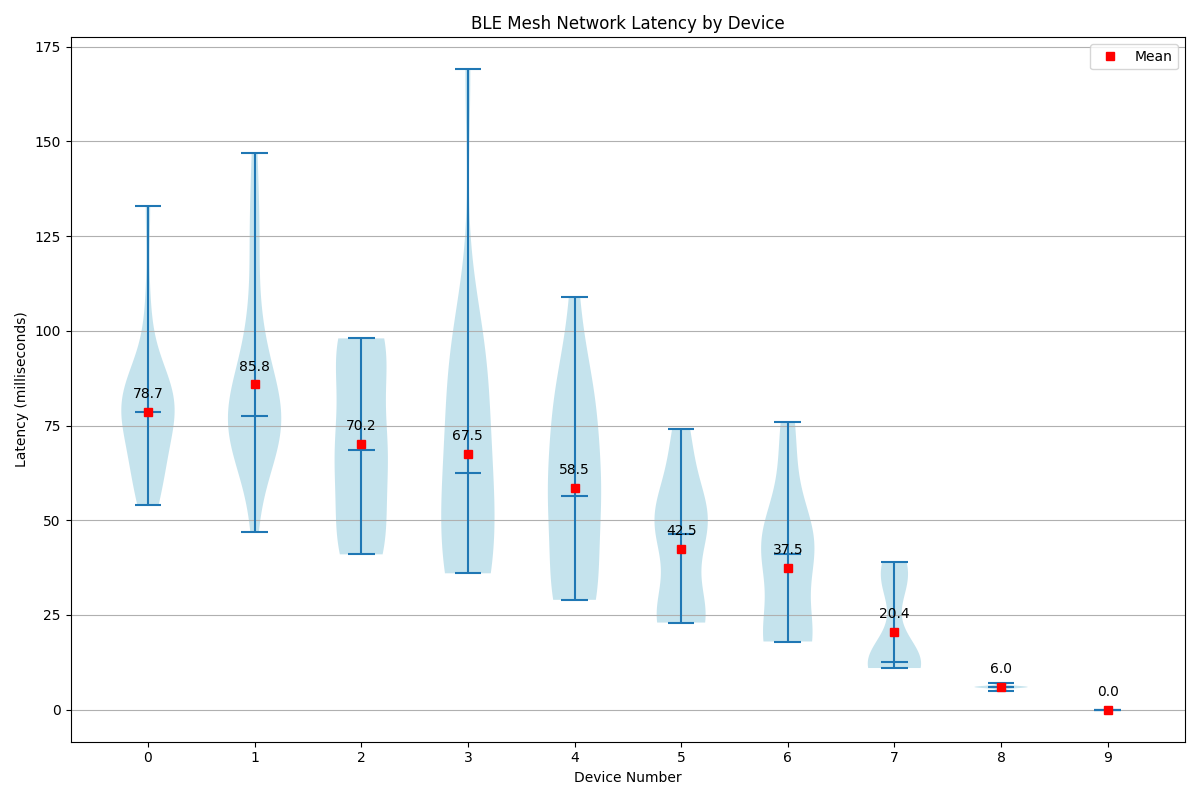
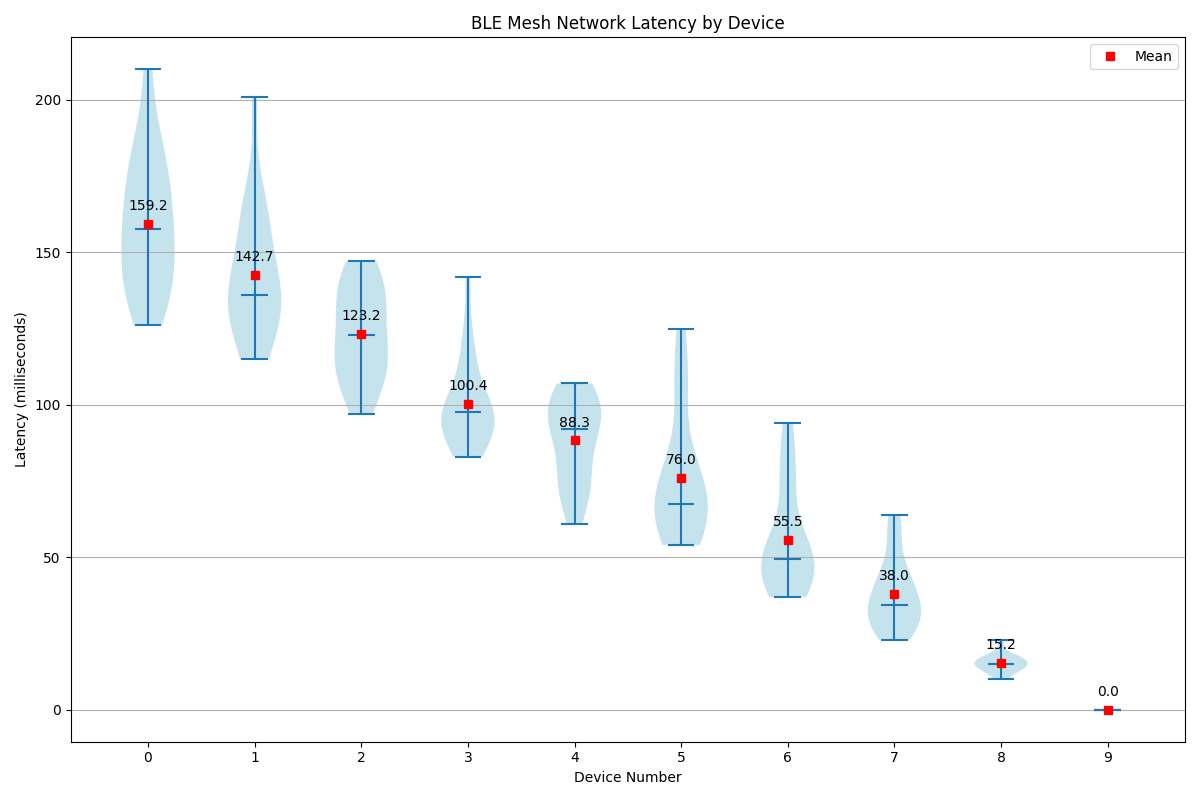
Bluetooth: Mesh: Use SDC for simulation
Uses SoftDevice Controller for simulation.

diff --git a/helper_plot_results.py b/helper_plot_results.py
@@ -7,16 +7,16 @@ import matplotlib.pyplot as plt
 
 # Sample log data - this could  be read from a file in practice
 log_data = """
-d_09: @00:04:09.435151  [00:04:09.435,150] <inf> mesh_nw_test: Dev 0 addr 0x0001 avg latency:  78 ms failures 0 # values: 59 105 63 80 133 86 83 60 84 77 65 63 76 79 87 83 76 78 54 82
-d_09: @00:04:09.435151  [00:04:09.435,150] <inf> mesh_nw_test: Dev 1 addr 0x0002 avg latency:  85 ms failures 0 # values: 81 47 72 70 77 71 92 73 75 98 75 76 78 78 127 100 124 77 79 147
-d_09: @00:04:09.435151  [00:04:09.435,150] <inf> mesh_nw_test: Dev 2 addr 0x0003 avg latency:  70 ms failures 0 # values: 63 41 63 45 74 73 46 96 91 70 88 97 45 67 97 98 97 43 66 43
-d_09: @00:04:09.435151  [00:04:09.435,150] <inf> mesh_nw_test: Dev 3 addr 0x0004 avg latency:  67 ms failures 0 # values: 88 89 65 58 39 89 40 36 92 66 36 56 64 38 37 95 95 36 169 61
-d_09: @00:04:09.435151  [00:04:09.435,150] <inf> mesh_nw_test: Dev 4 addr 0x0005 avg latency:  58 ms failures 0 # values: 58 29 31 51 63 53 87 61 51 78 55 76 74 31 82 30 90 109 30 31
-d_09: @00:04:09.435151  [00:04:09.435,150] <inf> mesh_nw_test: Dev 5 addr 0x0006 avg latency:  42 ms failures 0 # values: 50 74 44 25 23 24 70 46 25 51 51 23 52 24 24 67 53 24 47 53
-d_09: @00:04:09.435151  [00:04:09.435,150] <inf> mesh_nw_test: Dev 6 addr 0x0007 avg latency:  37 ms failures 0 # values: 19 41 18 45 42 46 63 46 18 19 72 18 49 18 40 18 76 41 43 18
-d_09: @00:04:09.435151  [00:04:09.435,150] <inf> mesh_nw_test: Dev 7 addr 0x0008 avg latency:  20 ms failures 0 # values: 13 12 37 12 39 12 11 35 32 12 12 12 34 12 36 13 13 12 38 12
-d_09: @00:04:09.435151  [00:04:09.435,150] <inf> mesh_nw_test: Dev 8 addr 0x0009 avg latency:   6 ms failures 0 # values: 5 7 6 6 5 6 7 6 6 6 6 6 6 6 6 5 6 6 6 7
-d_09: @00:04:09.435151  [00:04:09.435,150] <inf> mesh_nw_test: Dev 9 addr 0x000a avg latency:   0 ms failures 0 # values: 0 0 0 0 0 0 0 0 0 0 0 0 0 0 0 0 0 0 0 0
+d_09: @00:04:16.049439  [00:04:16.049,438] <inf> mesh_nw_test: Dev 0 addr 0x0001 avg latency: 159 ms failures 0 # values: 161 139 134 145 164 171 154 180 161 183 210 192 131 138 179 152 143 171 151 126
+d_09: @00:04:16.049439  [00:04:16.049,438] <inf> mesh_nw_test: Dev 1 addr 0x0002 avg latency: 142 ms failures 0 # values: 168 160 160 131 149 134 135 135 145 119 140 153 137 132 168 121 115 201 119 131
+d_09: @00:04:16.049439  [00:04:16.049,438] <inf> mesh_nw_test: Dev 2 addr 0x0003 avg latency: 123 ms failures 0 # values: 147 102 109 97 117 145 120 141 135 116 136 117 126 126 142 111 130 110 133 104
+d_09: @00:04:16.049439  [00:04:16.049,438] <inf> mesh_nw_test: Dev 3 addr 0x0004 avg latency: 100 ms failures 0 # values: 98 94 100 89 94 109 101 113 95 100 87 91 142 84 97 98 83 125 117 91
+d_09: @00:04:16.049439  [00:04:16.049,438] <inf> mesh_nw_test: Dev 4 addr 0x0005 avg latency:  88 ms failures 0 # values: 92 93 75 99 95 81 61 73 66 92 104 104 107 76 100 86 71 88 99 104
+d_09: @00:04:16.049439  [00:04:16.049,438] <inf> mesh_nw_test: Dev 5 addr 0x0006 avg latency:  75 ms failures 0 # values: 62 102 63 73 115 54 67 66 77 107 80 58 77 65 67 125 57 54 82 68
+d_09: @00:04:16.049439  [00:04:16.049,438] <inf> mesh_nw_test: Dev 6 addr 0x0007 avg latency:  55 ms failures 0 # values: 37 55 56 73 75 43 89 39 79 47 45 43 42 94 48 50 49 39 55 53
+d_09: @00:04:16.049439  [00:04:16.049,438] <inf> mesh_nw_test: Dev 7 addr 0x0008 avg latency:  38 ms failures 0 # values: 61 28 29 42 56 25 64 40 23 35 34 33 37 48 32 27 43 28 32 43
+d_09: @00:04:16.049439  [00:04:16.049,438] <inf> mesh_nw_test: Dev 8 addr 0x0009 avg latency:  15 ms failures 0 # values: 17 17 14 14 12 15 15 17 10 15 15 13 23 17 16 19 13 14 17 11
+d_09: @00:04:16.049439  [00:04:16.049,438] <inf> mesh_nw_test: Dev 9 addr 0x000a avg latency:   0 ms failures 0 # values: 0 0 0 0 0 0 0 0 0 0 0 0 0 0 0 0 0 0 0 0
 """
 
 def parse_latency_data(log_content):

diff --git a/README.md b/README.md
@@ -32,10 +32,10 @@ The test suite consists of several key components:
 
 ## Building and Running the Test
 
-1. Check out v3.0.1 tag for nRF Connect SDK:
+1. Check out main branch for nRF Connect SDK:
    ```bash
    cd /ncs/nrf
-   git checkout v3.0.1
+   git checkout main
    west update
    ```
 
@@ -61,17 +61,16 @@ The test suite consists of several key components:
 
 Output will look like this:
 ```bash
-d_09: @00:04:09.435151  [00:04:09.435,150] <inf> mesh_nw_test: Dev 0 addr 0x0001 avg latency:  78 ms failures 0 # values: 59 105 63 80 133 86 83 60 84 77 65 63 76 79 87 83 76 78 54 82
-d_09: @00:04:09.435151  [00:04:09.435,150] <inf> mesh_nw_test: Dev 1 addr 0x0002 avg latency:  85 ms failures 0 # values: 81 47 72 70 77 71 92 73 75 98 75 76 78 78 127 100 124 77 79 147
-d_09: @00:04:09.435151  [00:04:09.435,150] <inf> mesh_nw_test: Dev 2 addr 0x0003 avg latency:  70 ms failures 0 # values: 63 41 63 45 74 73 46 96 91 70 88 97 45 67 97 98 97 43 66 43
-d_09: @00:04:09.435151  [00:04:09.435,150] <inf> mesh_nw_test: Dev 3 addr 0x0004 avg latency:  67 ms failures 0 # values: 88 89 65 58 39 89 40 36 92 66 36 56 64 38 37 95 95 36 169 61
-d_09: @00:04:09.435151  [00:04:09.435,150] <inf> mesh_nw_test: Dev 4 addr 0x0005 avg latency:  58 ms failures 0 # values: 58 29 31 51 63 53 87 61 51 78 55 76 74 31 82 30 90 109 30 31
-d_09: @00:04:09.435151  [00:04:09.435,150] <inf> mesh_nw_test: Dev 5 addr 0x0006 avg latency:  42 ms failures 0 # values: 50 74 44 25 23 24 70 46 25 51 51 23 52 24 24 67 53 24 47 53
-d_09: @00:04:09.435151  [00:04:09.435,150] <inf> mesh_nw_test: Dev 6 addr 0x0007 avg latency:  37 ms failures 0 # values: 19 41 18 45 42 46 63 46 18 19 72 18 49 18 40 18 76 41 43 18
-d_09: @00:04:09.435151  [00:04:09.435,150] <inf> mesh_nw_test: Dev 7 addr 0x0008 avg latency:  20 ms failures 0 # values: 13 12 37 12 39 12 11 35 32 12 12 12 34 12 36 13 13 12 38 12
-d_09: @00:04:09.435151  [00:04:09.435,150] <inf> mesh_nw_test: Dev 8 addr 0x0009 avg latency:   6 ms failures 0 # values: 5 7 6 6 5 6 7 6 6 6 6 6 6 6 6 5 6 6 6 7
-d_09: @00:04:09.435151  [00:04:09.435,150] <inf> mesh_nw_test: Dev 9 addr 0x000a avg latency:   0 ms failures 0 # values: 0 0 0 0 0 0 0 0 0 0 0 0 0 0 0 0 0 0 0 0
-d_09: @00:02:04.858796 INFO: test_node_tester PASSED
+d_09: @00:04:16.049439  [00:04:16.049,438] <inf> mesh_nw_test: Dev 0 addr 0x0001 avg latency: 159 ms failures 0 # values: 161 139 134 145 164 171 154 180 161 183 210 192 131 138 179 152 143 171 151 126
+d_09: @00:04:16.049439  [00:04:16.049,438] <inf> mesh_nw_test: Dev 1 addr 0x0002 avg latency: 142 ms failures 0 # values: 168 160 160 131 149 134 135 135 145 119 140 153 137 132 168 121 115 201 119 131
+d_09: @00:04:16.049439  [00:04:16.049,438] <inf> mesh_nw_test: Dev 2 addr 0x0003 avg latency: 123 ms failures 0 # values: 147 102 109 97 117 145 120 141 135 116 136 117 126 126 142 111 130 110 133 104
+d_09: @00:04:16.049439  [00:04:16.049,438] <inf> mesh_nw_test: Dev 3 addr 0x0004 avg latency: 100 ms failures 0 # values: 98 94 100 89 94 109 101 113 95 100 87 91 142 84 97 98 83 125 117 91
+d_09: @00:04:16.049439  [00:04:16.049,438] <inf> mesh_nw_test: Dev 4 addr 0x0005 avg latency:  88 ms failures 0 # values: 92 93 75 99 95 81 61 73 66 92 104 104 107 76 100 86 71 88 99 104
+d_09: @00:04:16.049439  [00:04:16.049,438] <inf> mesh_nw_test: Dev 5 addr 0x0006 avg latency:  75 ms failures 0 # values: 62 102 63 73 115 54 67 66 77 107 80 58 77 65 67 125 57 54 82 68
+d_09: @00:04:16.049439  [00:04:16.049,438] <inf> mesh_nw_test: Dev 6 addr 0x0007 avg latency:  55 ms failures 0 # values: 37 55 56 73 75 43 89 39 79 47 45 43 42 94 48 50 49 39 55 53
+d_09: @00:04:16.049439  [00:04:16.049,438] <inf> mesh_nw_test: Dev 7 addr 0x0008 avg latency:  38 ms failures 0 # values: 61 28 29 42 56 25 64 40 23 35 34 33 37 48 32 27 43 28 32 43
+d_09: @00:04:16.049439  [00:04:16.049,438] <inf> mesh_nw_test: Dev 8 addr 0x0009 avg latency:  15 ms failures 0 # values: 17 17 14 14 12 15 15 17 10 15 15 13 23 17 16 19 13 14 17 11
+d_09: @00:04:16.049439  [00:04:16.049,438] <inf> mesh_nw_test: Dev 9 addr 0x000a avg latency:   0 ms failures 0 # values: 0 0 0 0 0 0 0 0 0 0 0 0 0 0 0 0 0 0 0 0
 ```
 
 5. You can then visualize the test results by pasting the output in the helper script `helper_plot_results.py` and running it:
@@ -182,10 +181,6 @@ You can build your own testing scenarios for specific applications and specific 
 Refer to existing [Bluetooth Mesh Babblesim tests](https://github.com/zephyrproject-rtos/zephyr/tree/main/tests/bsim/bluetooth/mesh) for more inspiration. The existing tests are not
 based on network topology, and they assume all devices can communicate with all other devices.
 
-## Limitations
-
-This networking simulation demonstration uses Zephyr's link layer for simplicity. Currently, it is not possible to use SoftDevice controller for Babblesim simulation.
-However, as Bluetooth Mesh operates at higher protocol layer above the controller, such simulation can be a great tool to understand functioning of Bluetooth Mesh networking.
 
 ### Important Notes
 
